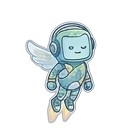
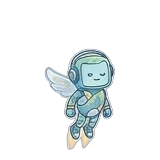
fix(mascot): smoother walk/idle cycles + bespoke keyframes for new states
Previous animation pass had several problems the user flagged:
- walk/idle frames jittered: each rembg'd sprite had a different character
  position within its canvas, so swapping them snapped the body around
- action frames (walk3 horizontal dive, fly3 glide) don't belong in a tight
  2-frame cycle — they're dramatic keyframes, not cycle frames
- opacity swaps were hard steps(1) — reads as flicker at slower tempos
- wave/meditate/love reused generic keyframes that didn't fit the poses
- startup wave jumped in without any entry transition

Fixes:
1. Re-anchored every sprite onto a uniform 160x160 canvas with feet at a
   fixed bottom baseline (scripts/sprite-align was a one-shot; results
   baked into the PNGs). Characters no longer drift between frames.
2. Reduced walk/idle cycles to 2 frames using only compatible upright
   poses (walk1 step ↔ walk2 stride; fly1 ↔ fly2 hover). walk3/walk4
   and fly3/fly4 stay in the asset folder for future use as standalone
   "dash" / "glide" states.
3. Replaced the hard opacity step with a crossfade window (airieCycle2A/B)
   — frames fade across ~5% of the cycle instead of snapping.
4. New pose-specific keyframes:
   - airieWaveHello: body lean arc so the raised hand traces a wave
   - airieMeditateLevitate/Aura: near-still lotus with breathing aura
   - airieLovePulse/Glow: double-thump heartbeat with warm pink drop-shadow
5. airieEnter keyframe + .airie-entering class now fades and grows Airie
[…]

Changed region(s): [[0.1714, 0.1429, 0.7429, 0.9429]]

diff --git a/src/styles/globals.css b/src/styles/globals.css
@@ -163,6 +163,53 @@
   50%       { filter: drop-shadow(0 10px 36px rgba(96, 210, 196, 1)); }
 }
 
+/* ── Pose-specific keyframes for sprite-sheet behaviors ──────
+   These are tailored to the static pose each sprite is drawn in,
+   so the motion amplifies what the art is already expressing. */
+
+/* Wave: the sprite has her hand raised. We arc her body slightly L/R
+   so the raised hand traces a small wave, with a small warm bob up. */
+@keyframes airieWaveHello {
+  0%, 100% { transform: translateY(-2px) rotate(-4deg); }
+  25%       { transform: translateY(-10px) rotate(4deg); }
+  50%       { transform: translateY(-2px) rotate(-4deg); }
+  75%       { transform: translateY(-10px) rotate(4deg); }
+}
+
+/* Meditate: sitting lotus on a cloud. Almost zero horizontal motion —
+   just a very slow vertical levitation and aura breath. */
+@keyframes airieMeditateLevitate {
+  0%, 100% { transform: translateY(0)    scale(1); }
+  50%       { transform: translateY(-4px) scale(1.015); }
+}
+@keyframes airieMeditateAura {
+  0%, 100% { filter: drop-shadow(0 6px 18px rgba(120, 220, 200, 0.4)); }
+  50%       { filter: drop-shadow(0 10px 28px rgba(160, 240, 220, 0.75)); }
+}
+
+/* Love: hugging a heart. Rhythmic heartbeat-style double pulse. */
+@keyframes airieLovePulse {
+  0%   { transform: scale(1)    translateY(0); }
+  14%  { transform: scale(1.08) translateY(-4px); }
+  28%  { transform: scale(1)    translateY(0); }
+  42%  { transform: scale(1.06) translateY(-3px); }
+  56%  { transform: scale(1)    translateY(0); }
+  100% { transform: scale(1)    translateY(0); }
+}
+@keyframes airieLoveGlow {
+  0%, 100% { filter: drop-shadow(0 6px 18px rgba(255, 150, 180, 0.5)); }
+  50%       { filter: drop-shadow(0 10px 28px rgba(255, 180, 210, 0.9)); }
+}
+
+/* Startup entry: fade + gentle grow. Used once when DesktopPet mounts. */
+@keyframes airieEnter {
+  0%   { opacity: 0; transform: translateY(10px) scale(0.9); }
+  100% { opacity: 1; transform: translateY(0)    scale(1); }
+}
+.airie-entering {
+  animation: airieEnter 0.6s cubic-bezier(0.22, 1.4, 0.36, 1) both;
+}
+
 /* ── State rules ─────────────────────────────────────── */
 
 /* Base: smooth filter change on state switch */
@@ -191,37 +238,53 @@
   filter: drop-shadow(0 5px 14px rgba(96, 210, 196, 0.28));
 }
 
-/* WALK — 4-frame locomotion cycle extracted from the sprite sheet.
-   Each of 4 stacked <img> frames is visible for 25% of the 520ms loop.
-   airieCycle4 holds opacity:1 for the first quarter, 0 for the rest; each
-   frame staggers its animation-delay by -130ms so they round-robin.
-   Result: real leg-swap locomotion, not a bouncing sprite.
-   Hop + shadow pulse retained for vertical motion and ground contact. */
-@keyframes airieCycle4 {
-  0%, 24.99% { opacity: 1; }
-  25%, 100%  { opacity: 0; }
+/* WALK — 2-frame locomotion cycle (walk1 upright-step ↔ walk2 mid-stride).
+   Soft crossfade instead of a hard snap: each frame fades across a 20% window
+   centered on the swap. That reads as motion rather than flicker.
+   Hop + shadow pulse retained for vertical bob and ground contact. */
+@keyframes airieCycle2A {
+  0%   { opacity: 1; }
+  45%  { opacity: 1; }
+  55%  { opacity: 0; }
+  95%  { opacity: 0; }
+  100% { opacity: 1; }
+}
+@keyframes airieCycle2B {
+  0%   { opacity: 0; }
+  45%  { opacity: 0; }
+  55%  { opacity: 1; }
+  95%  { opacity: 1; }
+  100% { opacity: 0; }
 }
 .airie--walk .airie-img {
-  animation: airieHop       0.52s cubic-bezier(0.33, 0, 0.66, 1) infinite,
-             airieCycle4    0.52s steps(1, end) infinite;
+  animation: airieHop 0.52s cubic-bezier(0.33, 0, 0.66, 1) infinite;
 }
-.airie--walk .airie-frame-0 { animation-delay: 0s,       0s; }
-.airie--walk .airie-frame-1 { animation-delay: 0s,  -0.13s; opacity: 0; }
-.airie--walk .airie-frame-2 { animation-delay: 0s,  -0.26s; opacity: 0; }
-.airie--walk .airie-frame-3 { animation-delay: 0s,  -0.39s; opacity: 0; }
+.airie--walk .airie-frame-0 {
+  animation: airieHop      0.52s cubic-bezier(0.33, 0, 0.66, 1) infinite,
+             airieCycle2A  0.52s linear infinite;
+}
+.airie--walk .airie-frame-1 {
+  animation: airieHop      0.52s cubic-bezier(0.33, 0, 0.66, 1) infinite,
+             airieCycle2B  0.52s linear infinite;
+}
 
-/* IDLE hover cycle — 4-frame flying loop at a much calmer tempo (1.6s).
-   Paired with the existing airieFloat rule on .airie--idle .airie-img.
-   Uses the SAME airieCycle4 keyframe at different duration. */
+/* IDLE hover cycle — 2-frame wing-beat at a calm 1.8s per loop.
+   fly1 (arms at sides) ↔ fly2 (holding tablet), both upright hover poses.
+   Uses a gentler float instead of the walk hop. */
 .airie--idle .airie-img.airie-hover {
   animation: airieFloat     3.8s ease-in-out infinite,
-             airieIdleBlink 7s   ease-in-out infinite,
-             airieCycle4    1.6s steps(1, end) infinite;
+             airieIdleBlink 7s   ease-in-out infinite;
 }
-.airie--idle .airie-frame-0 { animation-delay: 0s, 0s,      0s; }
-.airie--idle .airie-frame-1 { animation-delay: 0s, 0s,  -0.4s; opacity: 0; }
-.airie--idle .airie-frame-2 { animation-delay: 0s, 0s,  -0.8s; opacity: 0; }
-.airie--idle .airie-frame-3 { animation-delay: 0s, 0s,  -1.2s; opacity: 0; }
+.airie--idle .airie-frame-0.airie-hover {
+  animation: airieFloat     3.8s ease-in-out infinite,
+             airieIdleBlink 7s   ease-in-out infinite,
+             airieCycle2A   1.8s linear infinite;
+}
+.airie--idle .airie-frame-1.airie-hover {
+  animation: airieFloat     3.8s ease-in-out infinite,
+             airieIdleBlink 7s   ease-in-out infinite,
+             airieCycle2B   1.8s linear infinite;
+}
 
 /* ALERT — squash-stretch bounce + bright glow */
 .airie--alert .airie-img {
@@ -230,10 +293,12 @@
   filter: drop-shadow(0 8px 28px rgba(96, 210, 196, 0.75));
 }
 
-/* WAVE — fast flutter + pulsing glow */
+/* WAVE — sprite has hand up, so tilt the whole body so the raised hand
+   traces a proper wave arc. Warm glow pulse accompanies. */
 .airie--wave .airie-img {
-  animation: airieWaveFlutter 0.55s ease-in-out infinite,
-             airieGlowPulse   0.8s ease-in-out infinite;
+  animation: airieWaveHello  1.1s ease-in-out infinite,
+             airieGlowPulse  1.0s ease-in-out infinite;
+  transform-origin: 50% 80%; /* pivot near the feet so tilt looks like a body lean */
 }
 
 /* SLEEP — slow breathing, dims and softens */
@@ -254,17 +319,17 @@
   filter: drop-shadow(0 8px 32px rgba(96, 210, 196, 0.88));
 }
 
-/* MEDITATE — very slow breathing float, aqua aura.
-   She's sitting cross-legged on a cloud — keep movement subtle and centered. */
+/* MEDITATE — sitting lotus on a cloud. Near-still levitation + breathing aura. */
 .airie--meditate .airie-img {
-  animation: airieSleepBreathe 6.5s ease-in-out infinite;
-  filter: drop-shadow(0 6px 20px rgba(120, 220, 200, 0.45));
+  animation: airieMeditateLevitate 5.5s ease-in-out infinite,
+             airieMeditateAura     4.5s ease-in-out infinite;
 }
 
-/* LOVE — heart-hug bounce + warm pink glow */
+/* LOVE — heartbeat pulse (double-thump) + warm pink glow. */
 .airie--love .airie-img {
-  animation: airieHappyWiggle 1.4s ease-in-out infinite;
-  filter: drop-shadow(0 6px 22px rgba(255, 160, 180, 0.55));
+  animation: airieLovePulse 1.2s ease-in-out infinite,
+             airieLoveGlow  1.2s ease-in-out infinite;
+  transform-origin: 50% 75%;
 }
 
 /* DETERMINED — firm upward push, crisp glow */

diff --git a/src/layouts/DesktopPet.jsx b/src/layouts/DesktopPet.jsx
@@ -54,12 +54,15 @@ export function DesktopPet() {
     return () => window.removeEventListener('resize', onResize)
   }, [])
 
-  // Hello on launch — Airie waves hi the first time DesktopPet mounts.
-  // Runs once; the rAF loop takes over afterward.
+  // Hello on launch — Airie fades/grows in, then waves hi.
+  // Start idle (so the fade happens on a calm pose), wave after the fade,
+  // then return to normal idle. The rAF loop takes over afterward.
+  const [justMounted, setJustMounted] = useState(true)
   useEffect(() => {
-    const t = setTimeout(() => setMascotState('wave'), 400)
-    const t2 = setTimeout(() => setMascotState('idle'), 2400)
-    return () => { clearTimeout(t); clearTimeout(t2) }
+    const fadeDone = setTimeout(() => setJustMounted(false), 650)
+    const toWave   = setTimeout(() => setMascotState('wave'), 750)
+    const toIdle   = setTimeout(() => setMascotState('idle'), 2700)
+    return () => { clearTimeout(fadeDone); clearTimeout(toWave); clearTimeout(toIdle) }
     // eslint-disable-next-line react-hooks/exhaustive-deps
   }, [])
 
@@ -298,7 +301,7 @@ export function DesktopPet() {
         </div>
       )}
 
-      <div className="absolute pointer-events-auto cursor-pointer"
+      <div className={`absolute pointer-events-auto cursor-pointer ${justMounted ? 'airie-entering' : ''}`}
         style={{
           bottom: mascotBottom, left: mascotLeft,
           transform: facing < 0 ? 'scaleX(-1)' : 'scaleX(1)',

diff --git a/src/components/MascotAirie.jsx b/src/components/MascotAirie.jsx
@@ -34,12 +34,14 @@ import airieSurprised  from '../assets/airie/surprised.png'
 
 import walk1 from '../assets/airie/walk1.png'
 import walk2 from '../assets/airie/walk2.png'
-import walk3 from '../assets/airie/walk3.png'
-import walk4 from '../assets/airie/walk4.png'
 import fly1  from '../assets/airie/fly1.png'
 import fly2  from '../assets/airie/fly2.png'
-import fly3  from '../assets/airie/fly3.png'
-import fly4  from '../assets/airie/fly4.png'
+// Note: walk3/walk4 and fly3/fly4 are intentionally unused here.
+// The sprite sheet includes them as dramatic action poses (horizontal dive,
+// mid-air glide) — great keyframes, but they break the smoothness of a tight
+// 2-frame loop against the upright walk1/fly1 poses. We keep the cycles
+// limited to compatible poses for clean locomotion; action frames can be
+// repurposed later as standalone states (e.g. a "dash" or "leap" animation).
 
 const STATE_IMAGE = {
   idle:       airieActive,      // fallback — overridden by 4-frame hover below
@@ -55,8 +57,8 @@ const STATE_IMAGE = {
   surprised:  airieSurprised,
 }
 
-const WALK_FRAMES = [walk1, walk2, walk3, walk4]
-const FLY_FRAMES  = [fly1, fly2, fly3, fly4]
+const WALK_FRAMES = [walk1, walk2]
+const FLY_FRAMES  = [fly1, fly2]
 
 const IMG_STYLE = {
   width: '100%',

diff --git a/src/__tests__/mascotAirie.test.jsx b/src/__tests__/mascotAirie.test.jsx
@@ -49,18 +49,17 @@ describe('MascotAirie', () => {
     expect(src1).not.toBe(src2)
   })
 
-  it('renders 4 stacked frames for the walk locomotion cycle', () => {
+  it('renders 2 stacked frames for the walk locomotion cycle', () => {
     const { container } = render(<MascotAirie state="walk" />)
     const imgs = container.querySelectorAll('img')
-    expect(imgs.length).toBe(4)
-    // Each frame should carry its own .airie-frame-N class
+    expect(imgs.length).toBe(2)
     expect(container.querySelector('.airie-frame-0')).toBeTruthy()
-    expect(container.querySelector('.airie-frame-3')).toBeTruthy()
+    expect(container.querySelector('.airie-frame-1')).toBeTruthy()
   })
 
-  it('renders 4 stacked frames for the idle hover cycle', () => {
+  it('renders 2 stacked frames for the idle hover cycle', () => {
     const { container } = render(<MascotAirie state="idle" />)
     const imgs = container.querySelectorAll('img')
-    expect(imgs.length).toBe(4)
+    expect(imgs.length).toBe(2)
   })
 })
